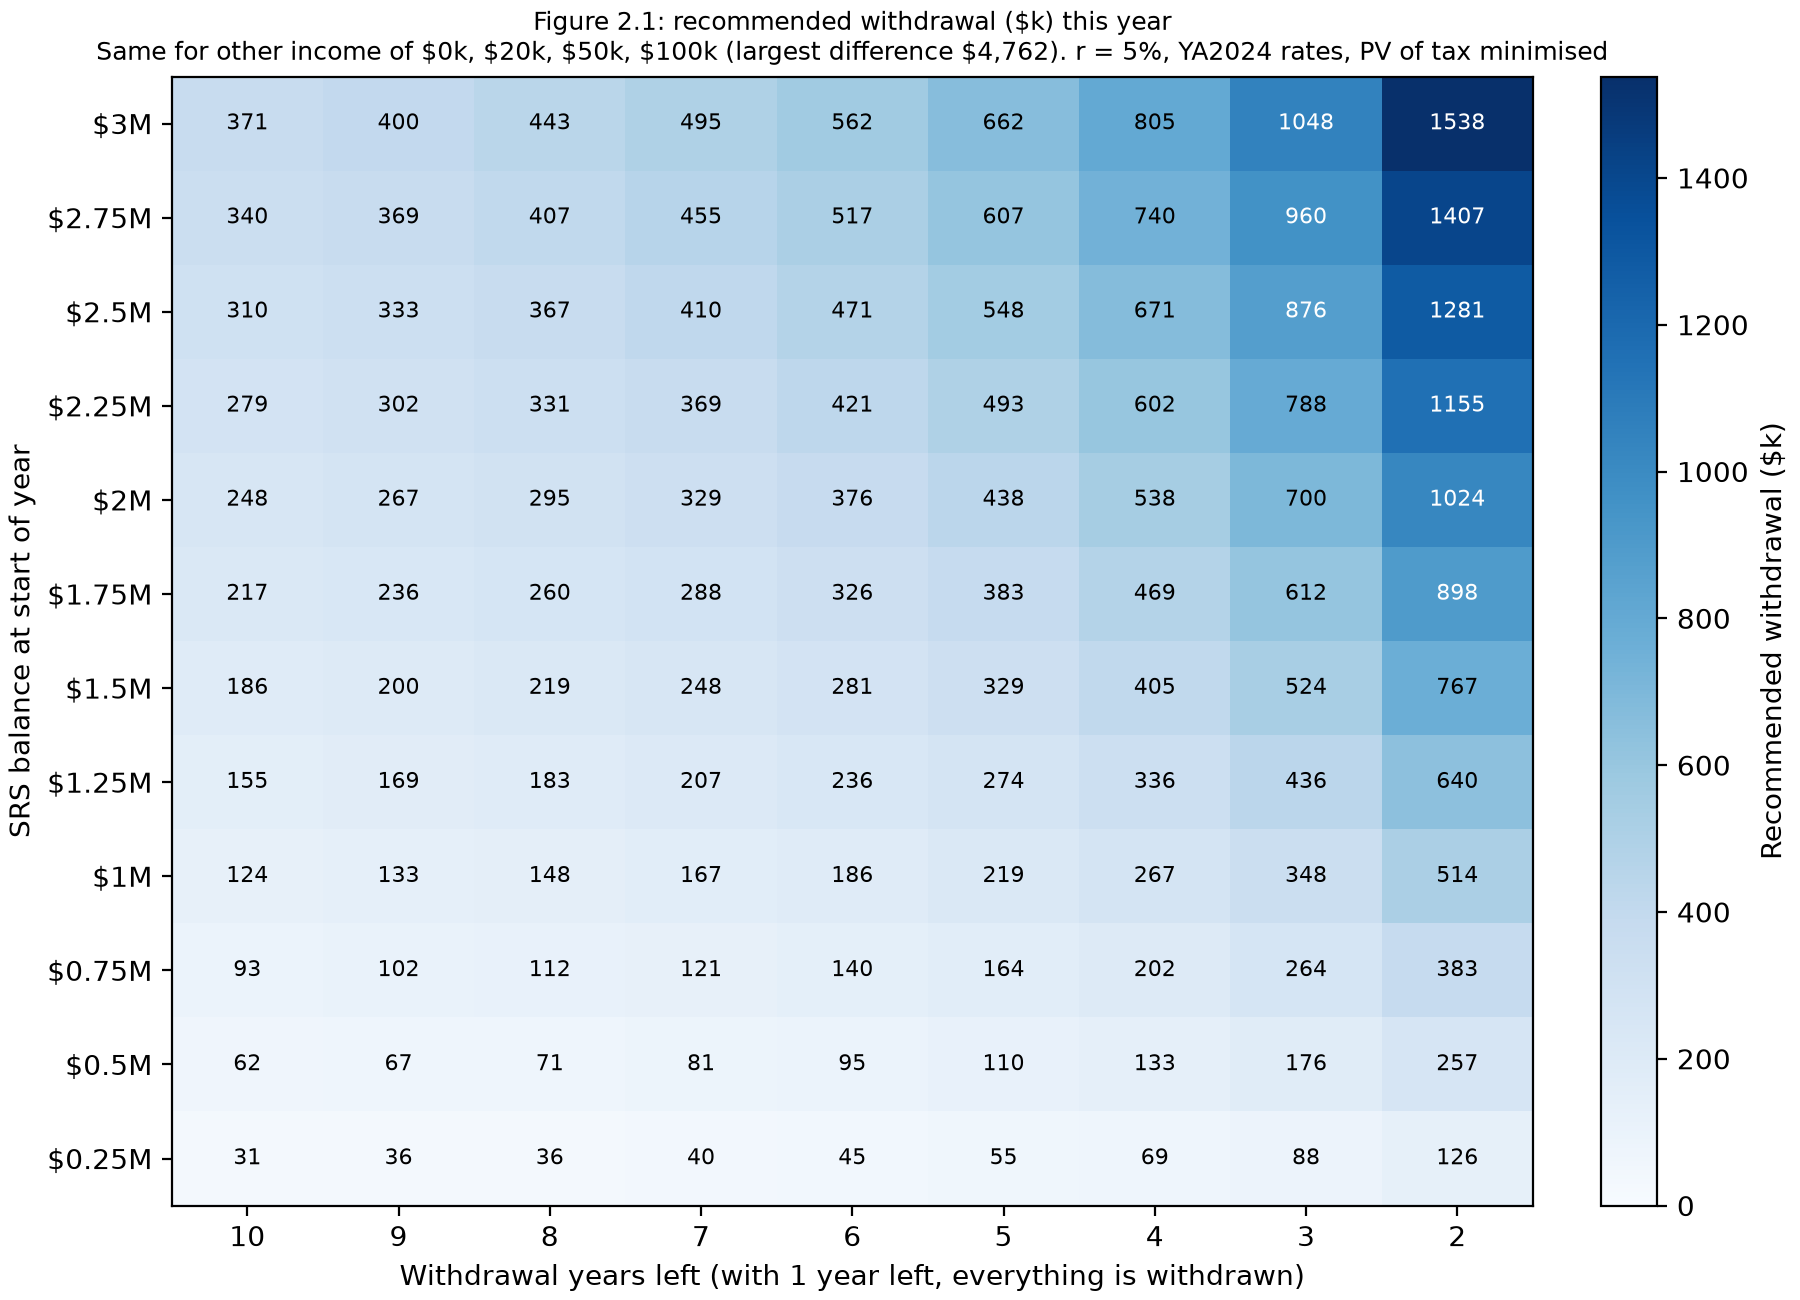
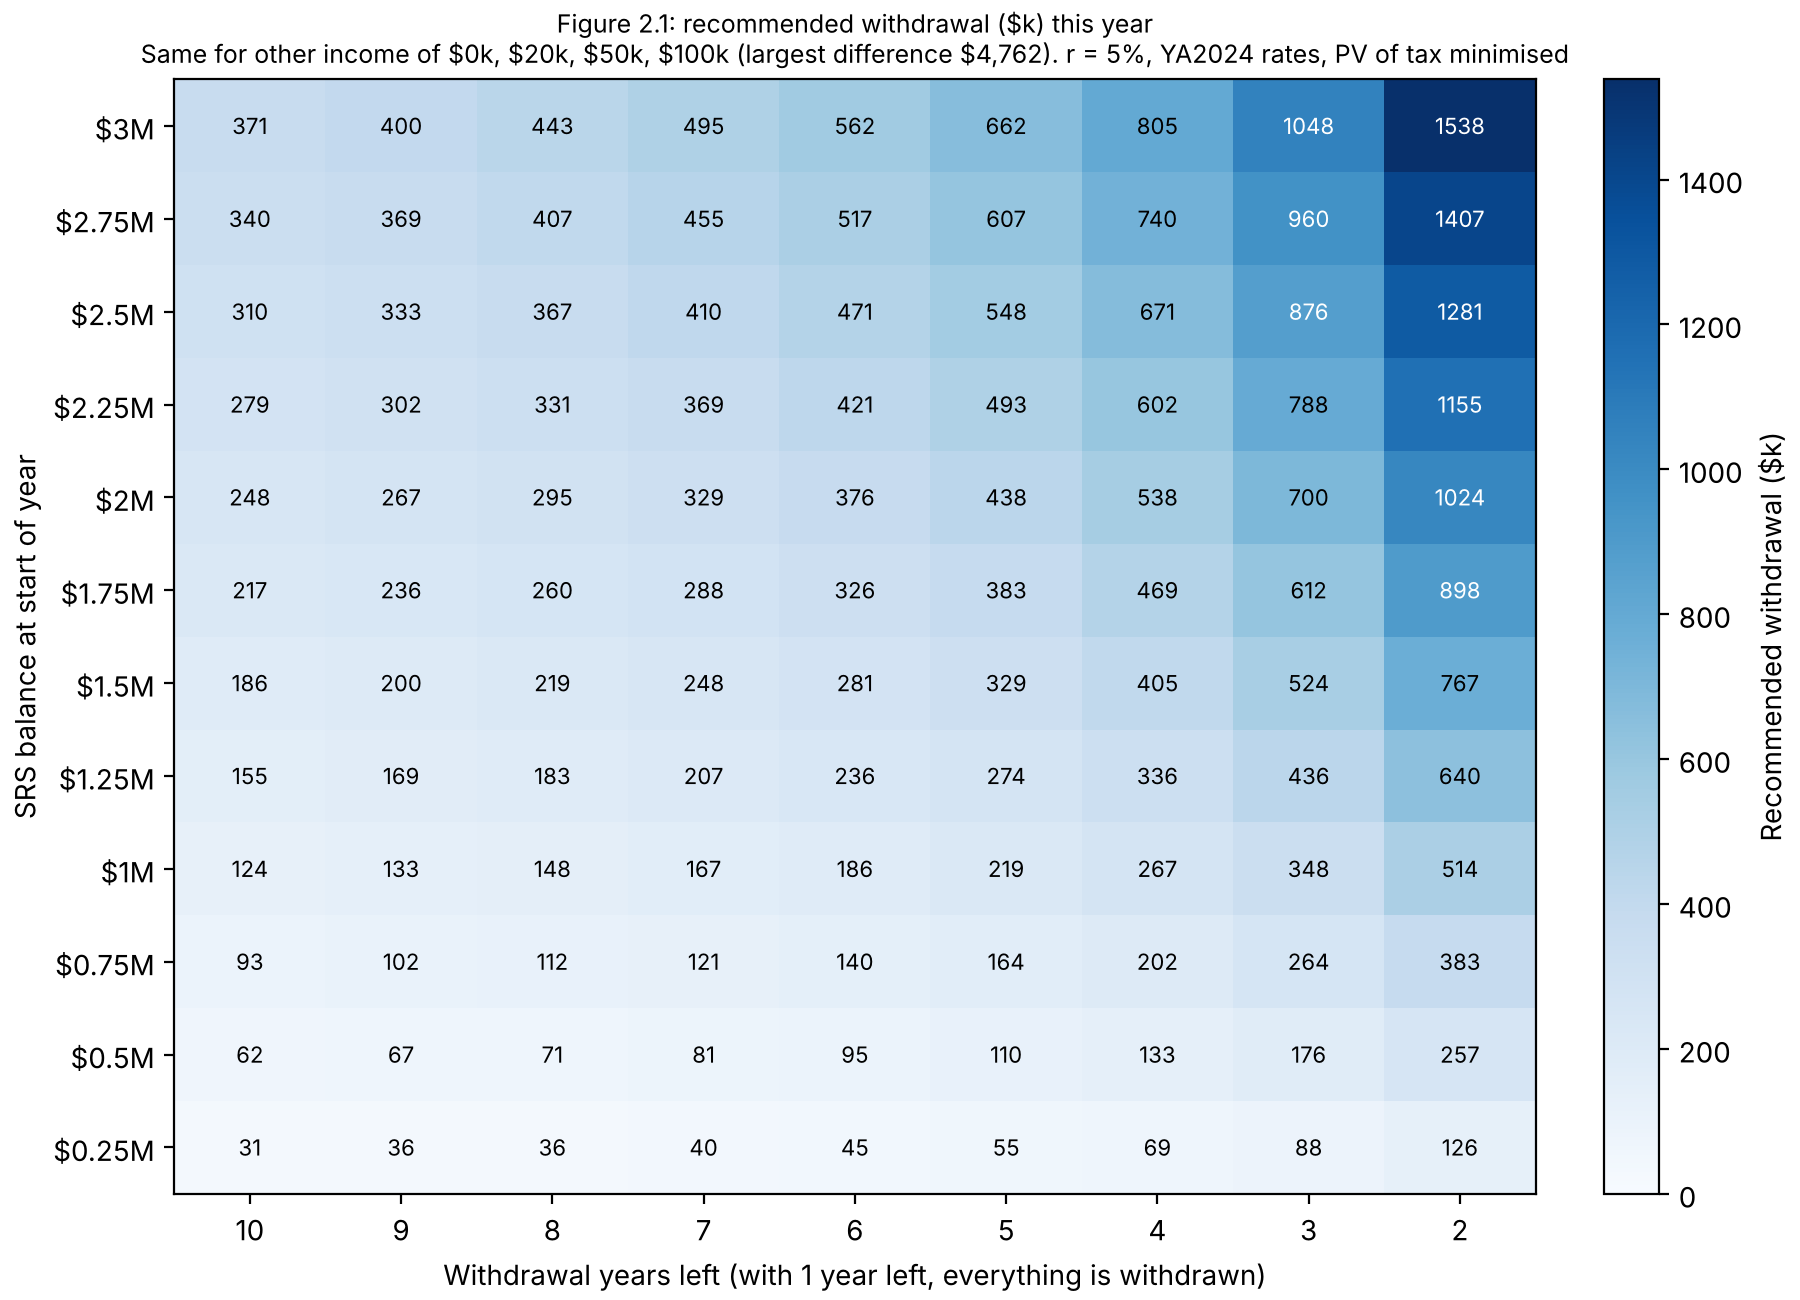
Model 2: add Figure 2.1b (policy by other income) and Figure 2.5 (exit rate vs return)
- fig 2.1b: recommended-withdrawal heatmap for each other-income level, 2 x 2,
  each panel titled with its largest difference from other income $0
- fig 2.5: optimal exit rate against the return during withdrawal (0% to 12%)
  for $0.5M to $3M; prints the r = 0/3/5/8% values quoted in the report
- tests: pin the report's exit rates at $1M (1.52%, 1.68%, 1.87%); 60 pass

Claude-Session: https://claude.ai/code/session_01NAJVjs6hPtAAuKd3JYoZF2

diff --git a/srs_basic/figures/fig2_1_to_2_3_policy.py b/srs_basic/figures/fig2_1_to_2_3_policy.py
@@ -1,6 +1,7 @@
 """Figures 2.1 to 2.3: optimal SRS withdrawal policy from the dynamic program.
 
 2.1  recommended withdrawal ($k) by balance and years left (heatmap)
+2.1b the same heatmap for each level of other income (2 x 2 panels)
 2.2  recommended withdrawal as % of balance: heatmap + line chart
 2.3  year-by-year withdrawals from several starting balances: heatmap + line chart
 
@@ -47,18 +48,23 @@ def solve_policy(other, schedule):
                  discount=config.DISCOUNT, deemed_separate=config.DEEMED_SEPARATE)
 
 
-def annotated(ax, Z, fmt, xlabels, xlabel, cbar_label, fig, cbar_fmt=None):
+def annotated(ax, Z, fmt, xlabels, xlabel, cbar_label, fig, cbar_fmt=None, vmax=None,
+              colorbar=True):
     """Light-to-dark blue heatmap with each cell's value written in it."""
-    im = ax.imshow(Z, cmap="Blues", aspect="auto", vmin=0, vmax=Z.max())
+    vmax = Z.max() if vmax is None else vmax
+    im = ax.imshow(Z, cmap="Blues", aspect="auto", vmin=0, vmax=vmax)
     for (i, j), v in np.ndenumerate(Z):
         ax.text(j, i, fmt(v), ha="center", va="center", fontsize=8,
-                color="white" if v > 0.55 * Z.max() else "black")
+                color="white" if v > 0.55 * vmax else "black")
     ax.set_xticks(range(len(xlabels)), xlabels)
     ax.set_yticks(range(len(ROW_LABELS)), ROW_LABELS)
     ax.set_xlabel(xlabel)
+    if not colorbar:
+        return im
     cbar = fig.colorbar(im, ax=ax, label=cbar_label)
     if cbar_fmt:
         cbar.ax.yaxis.set_major_formatter(cbar_fmt)
+    return im
 
 
 def save(fig, name, frame):
@@ -89,6 +95,36 @@ def figure_2_1(policies):
     n, B = np.meshgrid(YEARS_LEFT, ROWS[::-1])
     save(fig, "fig2_1_policy",
          pd.DataFrame({"balance": B.ravel(), "years_left": n.ravel(), "withdrawal": Z.ravel()}))
+
+
+def figure_2_1b(policies):
+    """Recommended withdrawal ($k) for each level of other income, 2 x 2 panels."""
+    tables = {yo: p[1][YEARS_LEFT][:, ROW_IDX].T[::-1] for yo, p in policies.items()}
+    base = tables[0] if 0 in tables else next(iter(tables.values()))
+    vmax = max(Z.max() for Z in tables.values())
+    ncols = 2
+    nrows = -(-len(tables) // ncols)
+    fig, axes = plt.subplots(nrows, ncols, figsize=(15, 6 * nrows), constrained_layout=True,
+                             squeeze=False)
+    rows = []
+    for ax, (yo, Z) in zip(axes.ravel(), tables.items()):
+        im = annotated(ax, Z, lambda v: f"{v/1e3:.0f}", YEARS_LEFT, "Withdrawal years left",
+                       "", fig, vmax=vmax, colorbar=False)
+        gap = np.abs(Z - base).max()
+        ax.set_title(f"Other income \\${yo/1e3:g}k a year "
+                     f"(largest difference from \\$0k: \\${gap:,.0f})", fontsize=10)
+        n, B = np.meshgrid(YEARS_LEFT, ROWS[::-1])
+        rows.append(pd.DataFrame({"other_income": yo, "balance": B.ravel(),
+                                  "years_left": n.ravel(), "withdrawal": Z.ravel()}))
+    for ax in axes.ravel()[len(tables):]:
+        ax.axis("off")
+    for ax in axes[:, 0]:
+        ax.set_ylabel("SRS balance at start of year")
+    cbar = fig.colorbar(im, ax=axes, label="Recommended withdrawal ($k)", shrink=0.6)
+    cbar.ax.yaxis.set_major_formatter(K_TICKS)
+    fig.suptitle(f"Figure 2.1b: recommended withdrawal (\\$k) by other income "
+                 f"({setting()})", fontsize=11)
+    save(fig, "fig2_1b_other_income", pd.concat(rows))
 
 
 def figure_2_2(policies):
@@ -181,6 +217,7 @@ def main():
     schedule = load_schedule(config.SCHEDULE_CSV, config.REGIME)
     policies = {yo: solve_policy(yo, schedule) for yo in config.YO_PANELS}
     figure_2_1(policies)
+    figure_2_1b(policies)
     figure_2_2(policies)
     figure_2_3(policies, schedule)
 

diff --git a/srs_basic/figures/fig2_5_exit_rate_vs_return.py b/srs_basic/figures/fig2_5_exit_rate_vs_return.py
@@ -1,0 +1,77 @@
+"""Figure 2.5: optimal exit rate against the return earned during withdrawal.
+
+Shows how growth during the 10-year window raises the exit rate above Model 1's
+(which assumes no growth, i.e. r = 0). Other income $0, PV of tax minimised.
+Also writes a table of the values used in the report (r = 0%, 3%, 5%, 8% at $1M).
+
+Run from the repo root: python -m srs_basic.figures.fig2_5_exit_rate_vs_return
+"""
+
+from pathlib import Path
+
+import matplotlib.pyplot as plt
+import numpy as np
+import pandas as pd
+from matplotlib.ticker import PercentFormatter
+
+from srs_basic import config
+from srs_basic.model2 import solve
+from srs_basic.tax import load_schedule
+
+OUTPUT = Path(config.OUTPUT_DIR)
+B_GRID = np.arange(0, config.B_MAX + config.DB, config.DB)
+RETURNS = np.round(np.arange(0, 0.1201, 0.005), 3)          # 0% to 12% in 0.5% steps
+STARTS = [500_000, 1_000_000, 2_000_000, 3_000_000]
+COLOURS = ["#1f77b4", "#2ca02c", "#ff7f0e", "#d62728"]
+REPORT_RETURNS = [0.0, 0.03, 0.05, 0.08]                    # values quoted in the report
+OTHER = 0
+
+
+def exit_rates(schedule):
+    """Optimal exit rate (PV of tax / balance) for each return and starting balance."""
+    idx = np.searchsorted(B_GRID, STARTS)
+    rows = []
+    for r in RETURNS:
+        V, _, _, _ = solve(r, OTHER, config.K, B_GRID, schedule, I=config.I,
+                           discount=config.DISCOUNT, deemed_separate=config.DEEMED_SEPARATE)
+        for b, i in zip(STARTS, idx):
+            rows.append({"r": r, "balance": b, "exit_rate": V[config.K, i] / b})
+    return pd.DataFrame(rows)
+
+
+def main():
+    schedule = load_schedule(config.SCHEDULE_CSV, config.REGIME)
+    df = exit_rates(schedule)
+
+    fig, ax = plt.subplots(figsize=(9, 5.5), constrained_layout=True)
+    for colour, b in zip(COLOURS, STARTS):
+        d = df[df.balance == b]
+        ax.plot(100 * d.r, d.exit_rate, color=colour, lw=2, label=f"${b/1e6:g}M")
+    base = df[df.balance == 1_000_000].set_index("r").exit_rate
+    for r in REPORT_RETURNS:
+        ax.plot(100 * r, base[r], "o", color="#2ca02c", ms=6)
+        ax.annotate(f"{base[r]:.2%}", (100 * r, base[r]), xytext=(4, 8),
+                    textcoords="offset points", fontsize=8, color="#2ca02c")
+    ax.annotate("r = 0% is Model 1 (no growth during withdrawal)", (0, base[0.0]),
+                xytext=(1.5, 0.0095), fontsize=8, color="grey",
+                arrowprops=dict(arrowstyle="->", lw=0.8, color="grey"))
+    ax.set_xlabel("Return during the withdrawal period, r (%)")
+    ax.set_ylabel(f"Optimal exit rate ({'PV' if config.DISCOUNT else 'nominal'} tax / balance)")
+    ax.yaxis.set_major_formatter(PercentFormatter(xmax=1, decimals=0))
+    ax.grid(alpha=0.3)
+    ax.legend(title="Starting balance", fontsize=8, title_fontsize=8, loc="upper left")
+    ax.set_title("Figure 2.5: growth during withdrawal raises the exit rate "
+                 "(other income \\$0, YA2024 rates)", fontsize=10)
+
+    OUTPUT.mkdir(parents=True, exist_ok=True)
+    fig.savefig(OUTPUT / "fig2_5_exit_rate_vs_return.png", dpi=200)
+    plt.close(fig)
+    df.to_csv(OUTPUT / "fig2_5_exit_rate_vs_return.csv", index=False)
+    table = (df[df.r.isin(REPORT_RETURNS)]
+             .pivot(index="r", columns="balance", values="exit_rate"))
+    print(table.map(lambda v: f"{v:.2%}").to_string())
+    print("Saved", OUTPUT / "fig2_5_exit_rate_vs_return.png")
+
+
+if __name__ == "__main__":
+    main()

diff --git a/srs_basic/tests/test_model2.py b/srs_basic/tests/test_model2.py
@@ -116,3 +116,10 @@ def test_simulate_rejects_balance_outside_grid():
 def test_solve_rejects_oversized_grid():
     with pytest.raises(ValueError):
         solve(0.05, 0, 10, np.arange(0, 5_000_000, 1_000), S)
+
+
+@pytest.mark.parametrize("r, expected", [(0.03, 0.0152), (0.05, 0.0168), (0.08, 0.0187)])
+def test_exit_rate_rises_with_return(r, expected):
+    # Values quoted in the Model 2 report (B = $1M, other income $0)
+    V, _, _, _ = solve(r, 0, 10, B_GRID, S)
+    assert V[10, I_1M] / 1_000_000 == pytest.approx(expected, abs=0.00005)
